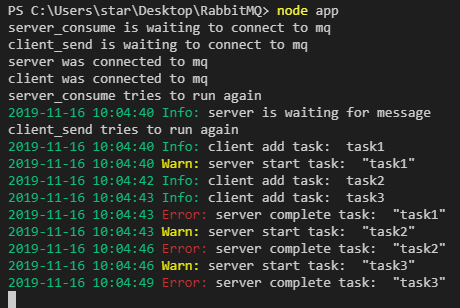
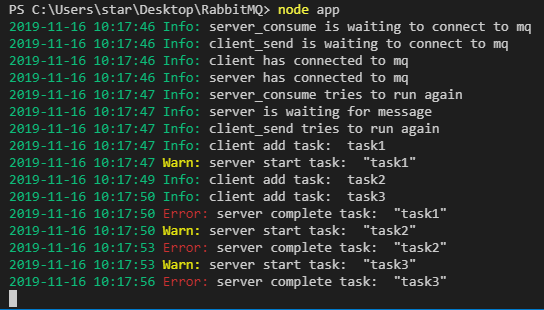
update console

Changed region(s): [[0.0, 0.0, 1.0, 1.0]]

diff --git a/lib/client_send.js b/lib/client_send.js
@@ -9,15 +9,15 @@ async function init() {
   const conn = await amqp.connect('amqp://localhost');
   process.once('SIGINT', conn.close.bind(conn));
   ch = await conn.createChannel();
-  console.log('client was connected to mq');
+  logger.info('client has connected to mq');
 }
 init().catch(console.error);
 
 async function client_send(queueName, data) {
   if (ch === undefined) {
-    console.log('client_send is waiting to connect to mq');
+    logger.info('client_send is waiting to connect to mq');
     await sleep(1000);
-    console.log('client_send tries to run again');
+    logger.info('client_send tries to run again');
     return await client_send(queueName, data);
   }
   ch.sendToQueue(queueName, Buffer.from(JSON.stringify(data)));

diff --git a/lib/server_consume.js b/lib/server_consume.js
@@ -9,16 +9,16 @@ async function init() {
   const conn = await amqp.connect('amqp://localhost');
   process.once('SIGINT', conn.close.bind(conn));
   ch = await conn.createChannel();
-  console.log('server was connected to mq');
+  logger.info('server has connected to mq');
   ch.prefetch(1);
 }
 init().catch(console.error);
 
 async function server_consume(queueName) {
   if (ch === undefined) {
-    console.log('server_consume is waiting to connect to mq');
+    logger.info('server_consume is waiting to connect to mq');
     await sleep(1000);
-    console.log('server_consume tries to run again');
+    logger.info('server_consume tries to run again');
     return await server_consume(queueName);
   }
   ch.consume(queueName, async msg => {
